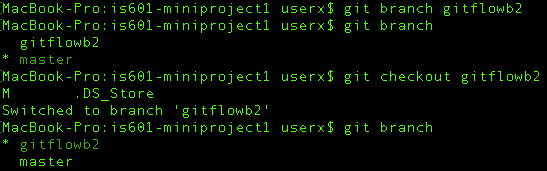
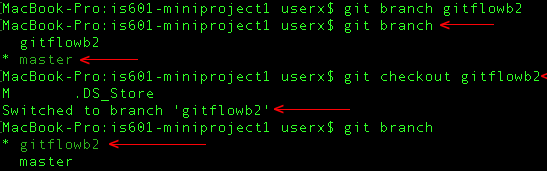
Fix: Edited all images uploaded with arrows and boxes for clearer visualization.

diff --git a/gitflow.md b/gitflow.md
@@ -48,6 +48,14 @@ Forking is making a copy of a master repository in your github account.
 
 When a team is working on a project and a team member wishes to create a copy of a master repository into their repository, they would Fork it into their repository to start working on the project
 
+### To visualize: 
+When you are at a repository that you did not create and wish to create a copy of that repository on to your github account, you click on the fork option on the upper right of the page as shown below.
+
+![Image to view all repositories](images/fork1.png)
+
+Once a repository is forked, a copy will be saved into your repository as shown below.
+
+![Image to view all repositories](images/fork2.png)
 ---
 ## Branch:
 
